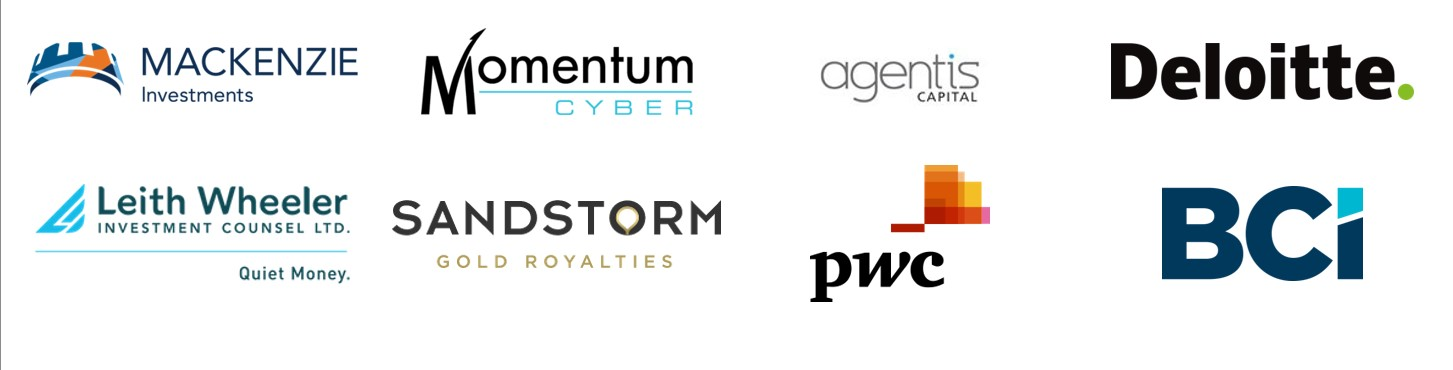
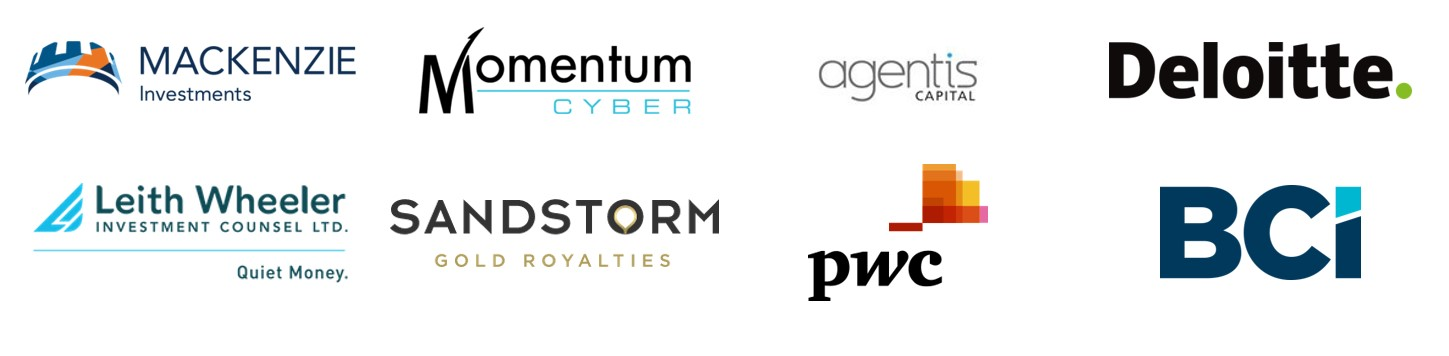
fixed image

diff --git a/src/components/CompanyPlacement/CompanyPlacement.module.css b/src/components/CompanyPlacement/CompanyPlacement.module.css
@@ -20,14 +20,12 @@
 @media only screen and (max-width : 1000px){
     .logoImage{
         width: 80%;
-        margin: 0 auto;
     }
 }
 
 @media only screen and (max-width : 700px){
     .logoImage{
         width: 80%;
-        margin: 0 auto;
     }
 }
 
@@ -35,6 +33,5 @@
 @media only screen and (max-width : 500px){
     .logoImage{
         width: 98%;
-        margin: 0 auto;
     }
 }
